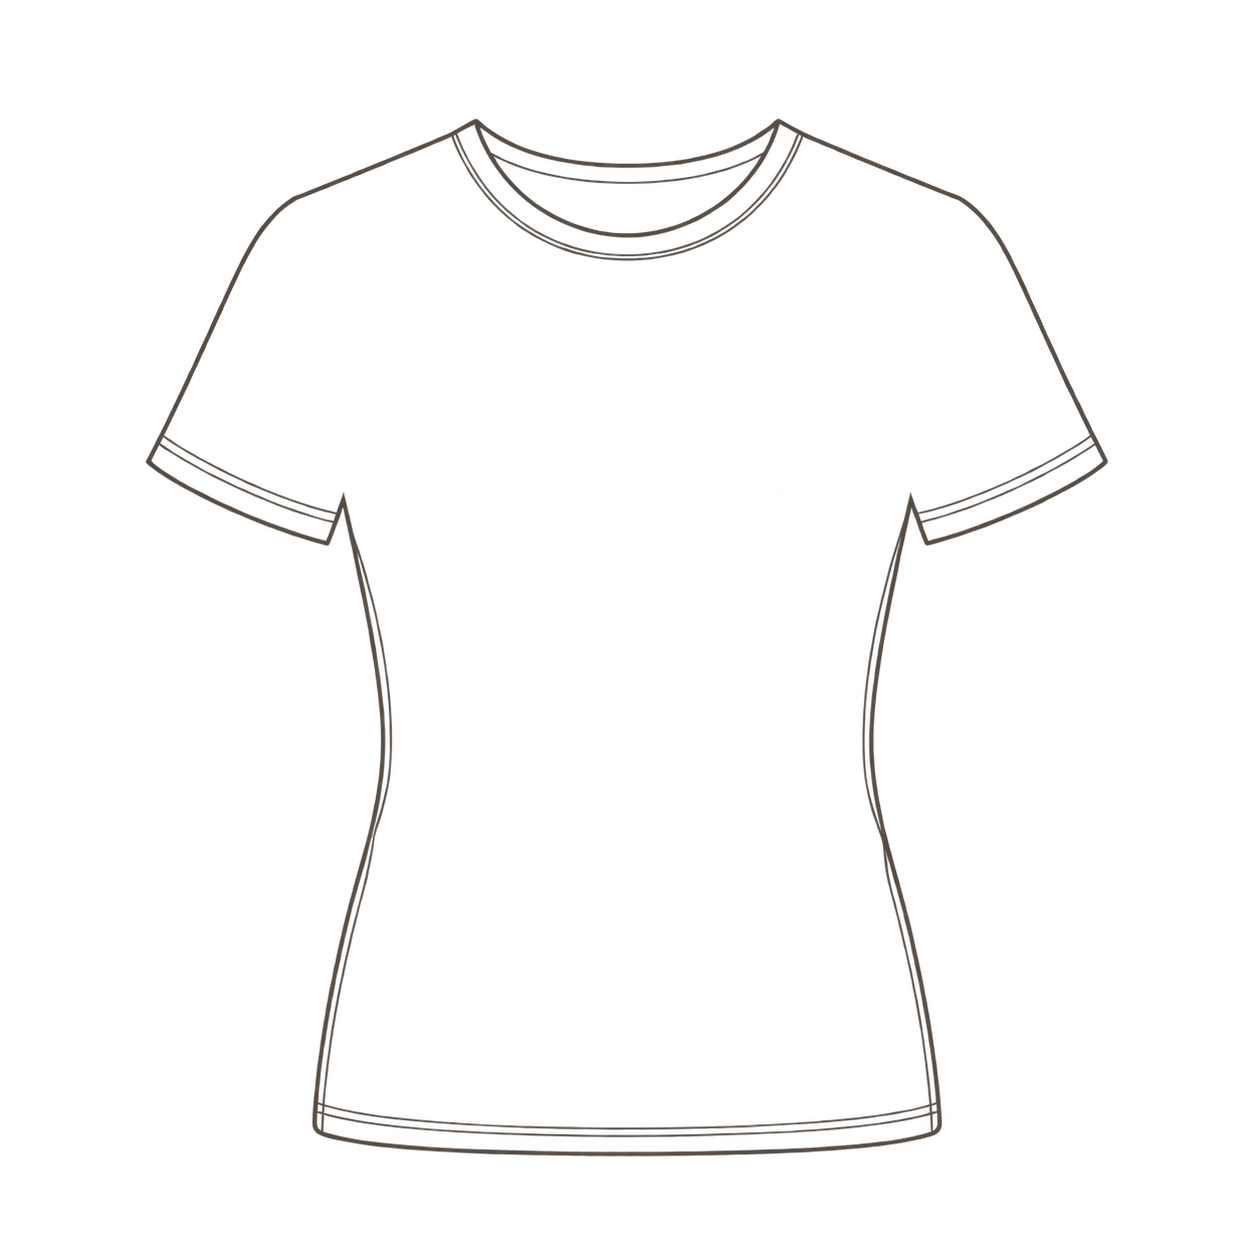
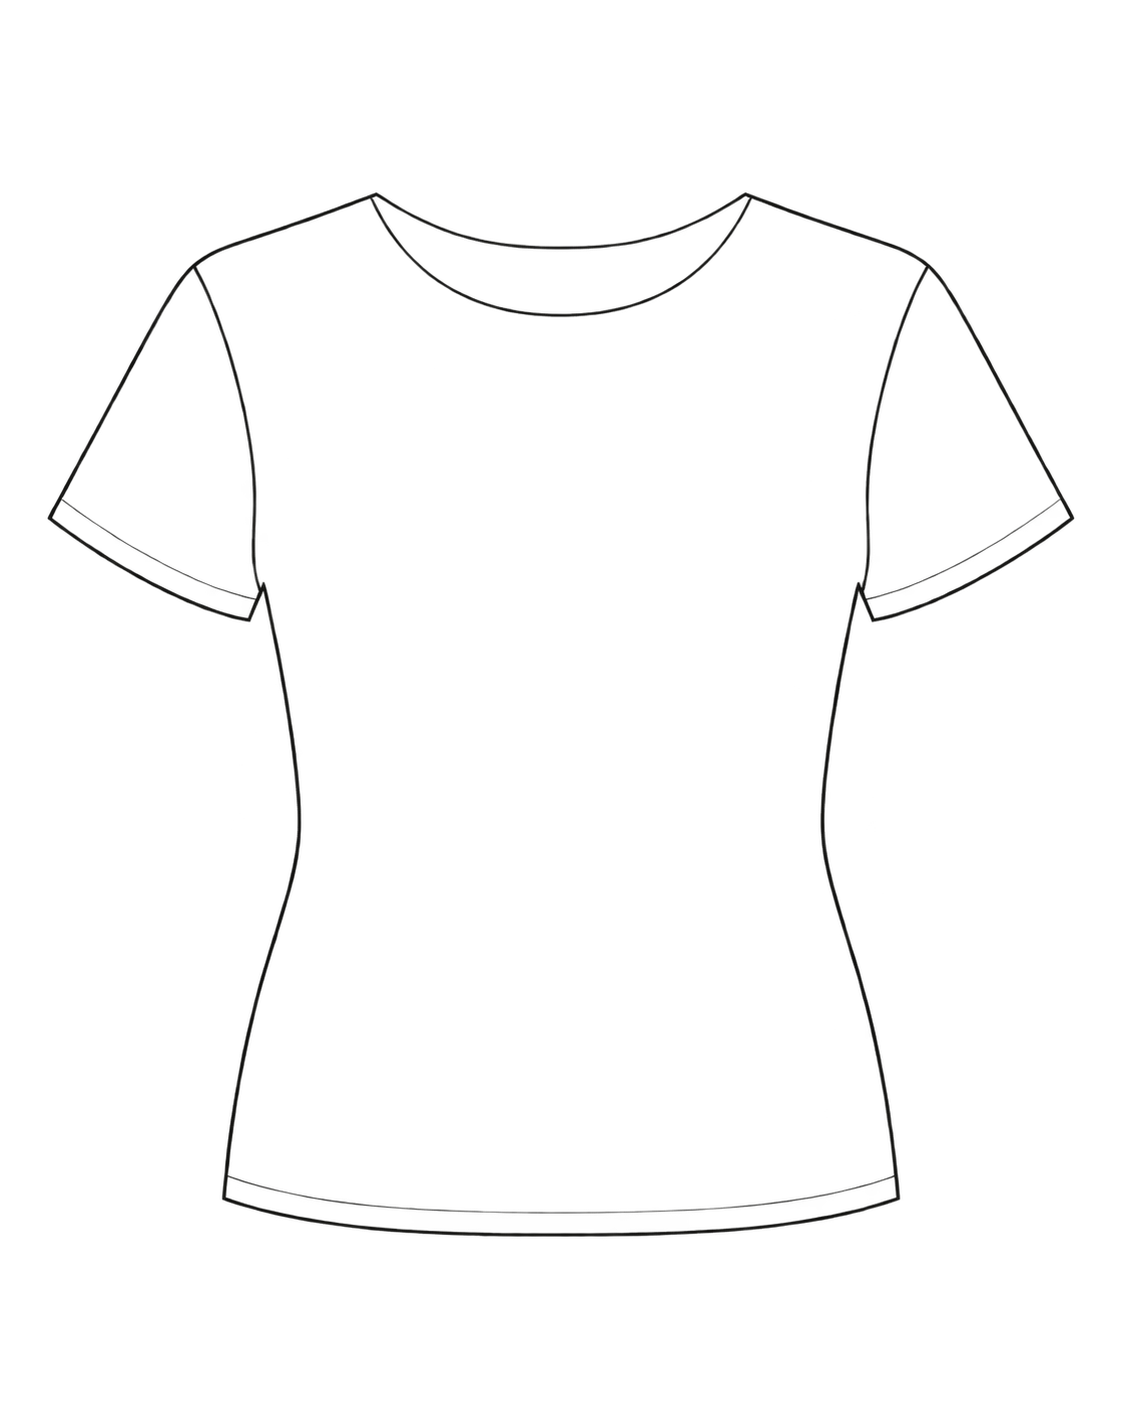
Replace supervised tee artwork

diff --git a/src/lib/silhouette-assets.ts b/src/lib/silhouette-assets.ts
@@ -46,7 +46,7 @@ export const SILHOUETTE_ASSETS: SilhouetteAssets = {
       mode: "mask",
       src: "/silhouettes/top/tee-mask.png",
       detailsSrc: "/silhouettes/top/tee-lines.png",
-      frame: { x: 80, y: 80, width: 200, height: 200 },
+      frame: { x: 80, y: 65, width: 200, height: 245 },
     },
     blouse: {
       mode: "mask",
